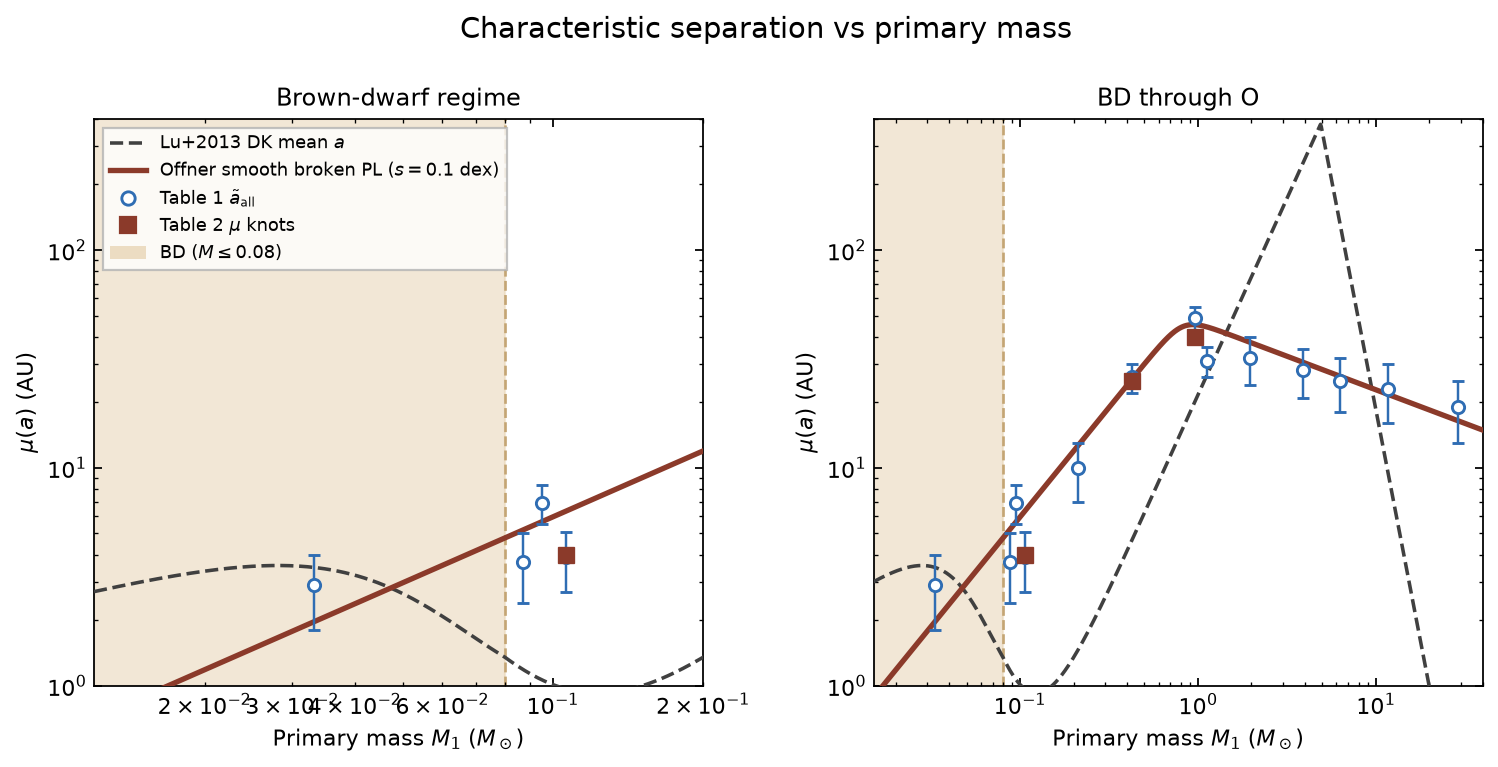
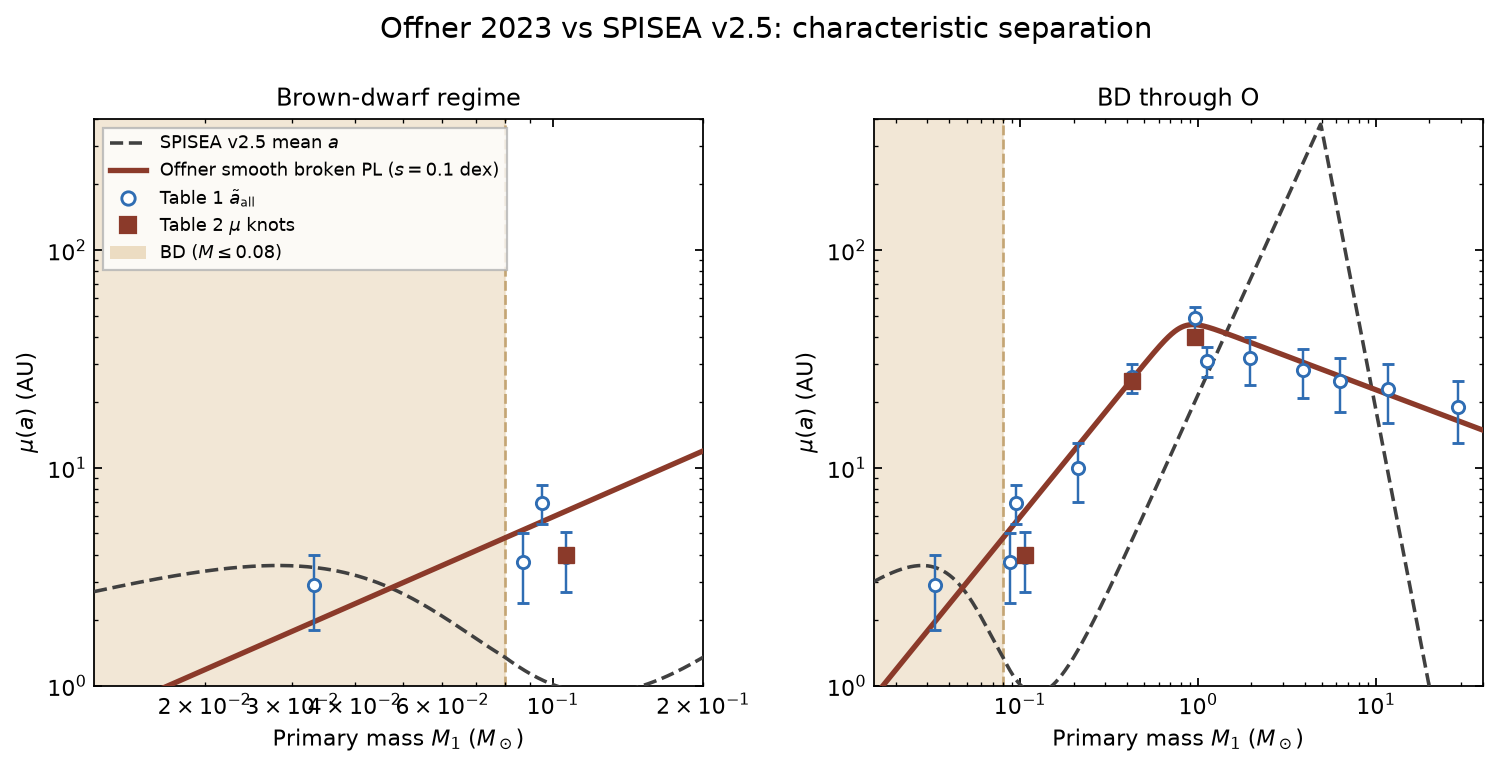
Label Offner comparison baseline as SPISEA v2.5, not Lu+2013
The comparison plots and docs describe Offner 2023 vs the default
MultiplicityUnresolved / MultiplicityResolvedDK that shipped in
SPISEA v2.5. Keep Lu et al. 2013 citations on the original classes.

Changed region(s): [[0.2457, 0.0, 0.7677, 0.06], [0.0921, 0.1799, 0.2457, 0.2099]]

diff --git a/docs/figures/plot_q_sep_offner_vs_lu2013.py b/docs/figures/plot_q_sep_offner_vs_lu2013.py
@@ -1,6 +1,6 @@
 #!/usr/bin/env python
 """
-Generate q / separation comparison figures vs Lu et al. (2013):
+Generate q / separation comparison figures vs SPISEA v2.5 defaults:
 
     docs/figures/q_offner_vs_lu2013.png
     docs/figures/sep_offner_vs_lu2013.png
@@ -96,8 +96,9 @@ def _table_xy(rows, y_idx=3, e_idx=4):
 
 def _lu2013_dk_mean_a_au(dk, mass):
     """
-    Duchêne & Kraus mean a in AU from ``MultiplicityResolvedDK`` coefficients,
-    plus the BD log-a interpolation and sigmoid blend in ``log_semimajoraxis``.
+    SPISEA v2.5 ``MultiplicityResolvedDK`` mean a in AU (Duchêne & Kraus
+    coefficients, plus the BD log-a interpolation and sigmoid blend in
+    ``log_semimajoraxis``).
     """
     mass = np.atleast_1d(np.asarray(mass, dtype=float))
     logm = np.log10(mass)
@@ -121,8 +122,9 @@ def _lu2013_dk_mean_a_au(dk, mass):
 
 def _lu2013_dk_sig_loga(dk, mass):
     """
-    Duchêne & Kraus σ(log10 a) from ``MultiplicityResolvedDK`` coefficients,
-    plus the BD interpolation and sigmoid blend in ``log_semimajoraxis``.
+    SPISEA v2.5 ``MultiplicityResolvedDK`` σ(log10 a) (Duchêne & Kraus
+    coefficients, plus the BD interpolation and sigmoid blend in
+    ``log_semimajoraxis``).
     """
     mass = np.atleast_1d(np.asarray(mass, dtype=float))
     logm = np.log10(mass)
@@ -208,7 +210,7 @@ def plot_gamma(offner, lu):
     g_lu = lu.q_power_at_mass(m_step)
     m_tab, g_tab, err_tab = _table_xy(_TABLE1_GAMMA)
 
-    fig, axes = _two_axes(r'Mass-ratio index $\gamma$ vs primary mass')
+    fig, axes = _two_axes(r'Offner 2023 vs SPISEA v2.5: mass-ratio index $\gamma$')
     ylabel = r'$\gamma$  ($P(q)\propto q^{\gamma}$)'
     for ax, xlim, title in (
         (axes[0], _BD_XLIM, 'Brown-dwarf regime'),
@@ -225,7 +227,7 @@ def plot_gamma(offner, lu):
 
     legend_handles = [
         Line2D([0], [0], color='0.25', ls='--', lw=1.6,
-               label=r'Lu+2013  $\gamma=6.1$ (BD), $-0.4$ (stellar)'),
+               label=r'SPISEA v2.5 ($\gamma=6.1$ / $-0.4$)'),
         Line2D([0], [0], color=_OFFNER_COLOR, ls='-', lw=2.4,
                label=r'Offner err-wt logistic in log $M$'),
         Line2D([0], [0], marker='o', color=_TABLE1_COLOR, ls='none',
@@ -246,7 +248,7 @@ def plot_sep(resolved, dk):
     m_t2 = np.array([_geom(r[1], r[2]) for r in _TABLE2_MU])
     a_t2 = np.array([r[3] for r in _TABLE2_MU], dtype=float)
 
-    fig, axes = _two_axes(r'Characteristic separation vs primary mass')
+    fig, axes = _two_axes(r'Offner 2023 vs SPISEA v2.5: characteristic separation')
     ylabel = r'$\mu(a)$ (AU)'
     for ax, xlim, title in (
         (axes[0], _BD_XLIM, 'Brown-dwarf regime'),
@@ -264,7 +266,7 @@ def plot_sep(resolved, dk):
 
     legend_handles = [
         Line2D([0], [0], color='0.25', ls='--', lw=1.6,
-               label=r'Lu+2013 DK mean $a$'),
+               label=r'SPISEA v2.5 mean $a$'),
         Line2D([0], [0], color=_OFFNER_COLOR, ls='-', lw=2.4,
                label=r'Offner smooth broken PL ($s=0.1$ dex)'),
         Line2D([0], [0], marker='o', color=_TABLE1_COLOR, ls='none',
@@ -286,7 +288,7 @@ def plot_sig_loga(resolved, dk):
     m_t2 = np.array(resolved.sep_sig_mass, dtype=float)
     sig_t2 = np.array(resolved.sep_sig, dtype=float)
 
-    fig, axes = _two_axes(r'Separation scatter $\sigma(\log_{10} a)$ vs primary mass')
+    fig, axes = _two_axes(r'Offner 2023 vs SPISEA v2.5: $\sigma(\log_{10} a)$')
     ylabel = r'$\sigma(\log_{10} a)$'
     for ax, xlim, title in (
         (axes[0], _BD_XLIM, 'Brown-dwarf regime'),
@@ -301,7 +303,7 @@ def plot_sig_loga(resolved, dk):
 
     legend_handles = [
         Line2D([0], [0], color='0.25', ls='--', lw=1.6,
-               label=r'Lu+2013 DK $\sigma(\log_{10} a)$'),
+               label=r'SPISEA v2.5 DK $\sigma_{\log a}$'),
         Line2D([0], [0], color=_OFFNER_COLOR, ls='-', lw=2.4,
                label=r'Offner 2-param logistic $\sigma$'),
         Line2D([0], [0], marker='s', color=_OFFNER_COLOR, ls='none',
@@ -321,7 +323,7 @@ def plot_meanq(offner, lu):
     m_step = _lu_gamma_step_masses()
     q_lu = _mean_q_from_gamma(lu.q_power_at_mass(m_step), q_min=lu.q_min)
 
-    fig, axes = _two_axes(r'Mean mass ratio $\langle q\rangle$ vs primary mass')
+    fig, axes = _two_axes(r'Offner 2023 vs SPISEA v2.5: mean mass ratio $\langle q\rangle$')
     ylabel = r'$\langle q\rangle$  on $[0.01,\,1]$'
     for ax, xlim, title in (
         (axes[0], _BD_XLIM, 'Brown-dwarf regime'),
@@ -334,7 +336,7 @@ def plot_meanq(offner, lu):
 
     legend_handles = [
         Line2D([0], [0], color='0.25', ls='--', lw=1.6,
-               label=r'Lu+2013  from $\gamma$ step'),
+               label=r'SPISEA v2.5 from $\gamma$ step'),
         Line2D([0], [0], color=_OFFNER_COLOR, ls='-', lw=2.4,
                label=r'Offner  from $\gamma(M)$ logistic'),
         Patch(facecolor=_BD_SHADE, edgecolor='none', alpha=0.8,

diff --git a/docs/figures/plot_mf_offner_vs_lu2013.py b/docs/figures/plot_mf_offner_vs_lu2013.py
@@ -3,7 +3,7 @@
 Generate docs/figures/mf_offner_vs_lu2013.png
 
 Two-panel comparison of multiplicity fraction vs primary mass:
-Lu et al. (2013) array power law, Lu+2013 scalar BD staircase,
+SPISEA v2.5 array power law, v2.5 scalar BD staircase,
 Offner et al. 2023 logistic in log-mass, and Offner Table 1
 points with error bars.
 
@@ -47,13 +47,13 @@ _TABLE1 = [
 
 
 def _lu2013_array_mf(mass):
-    """What cluster generation used: stellar power law, no BD staircase."""
+    """SPISEA v2.5 array path: stellar power law, no BD staircase."""
     mf = 0.44 * np.asarray(mass, dtype=float) ** 0.51
     return np.clip(mf, 0.0, 1.0)
 
 
 def _lu2013_scalar_bd_staircase(mass):
-    """Scalar-only BD bins in MultiplicityUnresolved.multiplicity_fraction."""
+    """SPISEA v2.5 scalar-only BD bins in MultiplicityUnresolved.multiplicity_fraction."""
     mass = np.asarray(mass, dtype=float)
     mf = _lu2013_array_mf(mass)
     mf = np.where(mass < 0.02, 0.0, mf)
@@ -74,9 +74,9 @@ def _style_panel(ax, m_off, mf_off, m_lu, mf_lu, m_step, mf_step,
     ax.axvspan(xlim[0], 0.08, color='#e8d5b5', alpha=0.55, zorder=0)
     ax.axvline(0.08, color='#c4a574', ls='--', lw=1.2, zorder=1)
     ax.plot(m_lu, mf_lu, color='0.25', ls='--', lw=1.6, zorder=3,
-            label=r'Lu+2013 power law  $0.44\,M^{0.51}$')
+            label=r'SPISEA v2.5 $0.44\,M^{0.51}$')
     ax.plot(m_step, mf_step, color='0.45', ls=':', lw=1.8, zorder=3,
-            label=r'Lu+2013 scalar BD bins  (0 / 8% / 16%)')
+            label=r'SPISEA v2.5 scalar BD bins (0 / 8% / 16%)')
     ax.plot(m_off, mf_off, color='#8b3a2a', ls='-', lw=2.4, zorder=4,
             label='Offner logistic in log M')
     ax.errorbar(m_tab, mf_tab, yerr=err_tab, fmt='o', color='#2f6db3',
@@ -109,7 +109,8 @@ def main():
 
     fig, axes = plt.subplots(1, 2, figsize=(11.2, 4.6),
                              gridspec_kw={'wspace': 0.28})
-    fig.suptitle('Multiplicity fraction vs primary mass', fontsize=13, y=1.02)
+    fig.suptitle('Offner 2023 vs SPISEA v2.5: multiplicity fraction',
+                 fontsize=13, y=1.02)
 
     _style_panel(
         axes[0], m_wide, mf_off, m_wide, mf_lu, m_step, mf_step,
@@ -124,9 +125,9 @@ def main():
 
     legend_handles = [
         Line2D([0], [0], color='0.25', ls='--', lw=1.6,
-               label=r'Lu+2013 power law  $0.44\,M^{0.51}$'),
+               label=r'SPISEA v2.5 $0.44\,M^{0.51}$'),
         Line2D([0], [0], color='0.45', ls=':', lw=1.8,
-               label=r'Lu+2013 scalar BD bins  (0 / 8% / 16%)'),
+               label=r'SPISEA v2.5 scalar BD bins (0 / 8% / 16%)'),
         Line2D([0], [0], color='#8b3a2a', ls='-', lw=2.4,
                label='Offner logistic in log M'),
         Line2D([0], [0], marker='o', color='#2f6db3', ls='none',

diff --git a/spisea/tests/test_multiplicity.py b/spisea/tests/test_multiplicity.py
@@ -500,7 +500,7 @@ def test_offner2023_alias_and_resolved_methods():
 
 
 def test_lu2013_defaults_unchanged():
-    """Lu et al. 2013 MultiplicityUnresolved defaults and stellar MF unchanged."""
+    """SPISEA v2.5 MultiplicityUnresolved defaults and stellar MF unchanged."""
     mu = multiplicity.MultiplicityUnresolved()
     assert mu.MF_amp == 0.44
     assert mu.MF_pow == 0.51
@@ -509,7 +509,7 @@ def test_lu2013_defaults_unchanged():
     np.testing.assert_almost_equal(mu.multiplicity_fraction(1.0), 0.44, decimal=2)
     np.testing.assert_almost_equal(mu.multiplicity_fraction(10.0), 1.0, decimal=2)
     np.testing.assert_almost_equal(mu.multiplicity_fraction(0.1), 0.136, decimal=2)
-    # Scalar BD overrides (historical Lu+2013 / Fontanive path)
+    # Scalar BD overrides (SPISEA v2.5 / Fontanive path)
     assert np.isclose(mu.multiplicity_fraction(0.07), 0.16, atol=0.01)
     assert np.isclose(mu.multiplicity_fraction(0.04), 0.08, atol=0.01)
     assert np.isclose(mu.multiplicity_fraction(0.01), 0.0, atol=1e-6)
@@ -572,13 +572,13 @@ def test_calc_multi_uses_multiplicity_q_and_counts():
 
 
 def test_offner2023_mf_is_vectorized():
-    """Offner MF is vectorized; Lu+2013 scalar BD bins are not used here."""
+    """Offner MF is vectorized; SPISEA v2.5 scalar BD bins are not used here."""
     multi = multiplicity.MultiplicityUnresolvedOffner2023()
     masses = np.array([0.03, 0.06, 0.10, 1.0])
     mf = multi.multiplicity_fraction(masses)
     for i, m in enumerate(masses):
         np.testing.assert_allclose(mf[i], multi.multiplicity_fraction(float(m)))
-    # Array path is not the Lu stellar power law 0.44 * M**0.51
+    # Array path is not the SPISEA v2.5 stellar power law 0.44 * M**0.51
     lu_pl = 0.44 * masses ** 0.51
     assert not np.allclose(mf, np.clip(lu_pl, 0, 1), atol=0.02)
 

diff --git a/spisea/imf/multiplicity.py b/spisea/imf/multiplicity.py
@@ -987,7 +987,7 @@ class MultiplicityUnresolvedOffner2023(MultiplicityLogistic):
     :meth:`sigma_log_a`. Resolved draws use those as loc / scale
     of a truncated lognormal.
 
-    This class is opt-in; it does not change the Lu et al. (2013)
+    This class is opt-in; it does not change the SPISEA v2.5
     :class:`MultiplicityUnresolved` default.
 
     Parameters

diff --git a/spisea/tests/test_imf.py b/spisea/tests/test_imf.py
@@ -52,7 +52,7 @@ def test_generate_cluster_offner2023():
     assert np.all(n_comp[bd] <= 1)
     assert np.any(isMulti)
 
-    # BD companions should be more equal-mass than Lu+2013 stellar q_power=-0.4
+    # BD companions should be more equal-mass than SPISEA v2.5 stellar q_power=-0.4
     bd_mult = bd & isMulti
     if np.any(bd_mult):
         q_bd = []

diff --git a/docs/multiplicity.rst b/docs/multiplicity.rst
@@ -91,9 +91,10 @@ Planets VII, ASP Conf. Ser. 534, 275 (`arXiv:2203.10066
 data: Zenodo `10.5281/zenodo.6628915
 <https://doi.org/10.5281/zenodo.6628915>`_.
 
-The Lu et al. (2013) :class:`~imf.multiplicity.MultiplicityUnresolved`
-object remains the default. Pass an Offner instance as
-``IMF.multiplicity`` to use this model.
+The SPISEA v2.5 :class:`~imf.multiplicity.MultiplicityUnresolved` /
+:class:`~imf.multiplicity.MultiplicityResolvedDK` objects remain the
+default. Pass an Offner instance as ``IMF.multiplicity`` to use this
+model.
 
 Unresolved (companions, no orbits)::
 
@@ -132,20 +133,20 @@ raised to at least MF, and forced equal to MF for
 :math:`M \le 0.08\,M_\odot` (binaries only). Masses :math:`M \le 0`
 map to the low-mass asymptote :math:`A`.
 
-Lu et al. (2013) uses :math:`\mathrm{MF} = 0.44\,M^{0.51}` (clipped
+SPISEA v2.5 uses :math:`\mathrm{MF} = 0.44\,M^{0.51}` (clipped
 to 1) for arrays, plus a scalar-only brown-dwarf staircase
 (0 / 8% / 16%). Cluster generation on that class still uses the
 stellar power law for brown-dwarf primaries.
 
 .. figure:: figures/mf_offner_vs_lu2013.png
-   :alt: Multiplicity fraction vs primary mass: Offner logistic vs Lu+2013 power law and scalar BD staircase
+   :alt: Offner 2023 vs SPISEA v2.5: multiplicity fraction vs primary mass
    :align: center
 
-   Multiplicity fraction vs primary mass. Left: brown-dwarf zoom.
-   Right: BD through early B. Solid: Offner logistic in log-mass.
-   Dashed: Lu+2013 :math:`0.44\,M^{0.51}`. Dotted: Lu+2013 scalar BD
-   staircase. Blue points: Offner Table 1. Shaded:
-   :math:`M \le 0.08\,M_\odot`.
+   Offner 2023 vs SPISEA v2.5: multiplicity fraction vs primary mass.
+   Left: brown-dwarf zoom. Right: BD through early B. Solid: Offner
+   logistic in log-mass. Dashed: SPISEA v2.5 :math:`0.44\,M^{0.51}`.
+   Dotted: SPISEA v2.5 scalar BD staircase. Blue points: Offner
+   Table 1. Shaded: :math:`M \le 0.08\,M_\odot`.
 
 Mass-ratio index
 ~~~~~~~~~~~~~~~~
@@ -165,25 +166,26 @@ with :math:`(A, B, M_0, k) = (6.6, -1.77, 0.0651, 0.629)`. Call
 The err-weighted fit undershoots Fontanive et al. (2018)
 :math:`8\pm 6\%` MF and :math:`\gamma = 4.8\pm 2.2`: at
 :math:`0.033\,M_\odot`, :math:`\gamma \approx 3.3`. That is the
-fit, not a bug. Lu+2013 is a step: :math:`\gamma = 6.1` for
+fit, not a bug. SPISEA v2.5 is a step: :math:`\gamma = 6.1` for
 :math:`M \le 0.08\,M_\odot` (Fontanive) and :math:`-0.4` above.
 
 .. figure:: figures/q_offner_vs_lu2013.png
-   :alt: Mass-ratio index vs primary mass: Offner error-weighted logistic vs Lu+2013 6.1 / -0.4 step
+   :alt: Offner 2023 vs SPISEA v2.5: mass-ratio index vs primary mass
    :align: center
 
-   Mass-ratio index :math:`\gamma` vs primary mass. Solid: Offner
-   error-weighted logistic. Dashed: Lu+2013 step (6.1 below
-   :math:`0.08\,M_\odot`, :math:`-0.4` above). Blue points: Table 1
-   :math:`\gamma_{\mathrm{trunc}}`.
+   Offner 2023 vs SPISEA v2.5: mass-ratio index :math:`\gamma` vs
+   primary mass. Solid: Offner error-weighted logistic. Dashed:
+   SPISEA v2.5 step (6.1 below :math:`0.08\,M_\odot`, :math:`-0.4`
+   above). Blue points: Table 1 :math:`\gamma_{\mathrm{trunc}}`.
 
 .. figure:: figures/meanq_offner_vs_lu2013.png
-   :alt: Mean mass ratio vs primary mass implied by P(q) proportional to q^gamma
+   :alt: Offner 2023 vs SPISEA v2.5: mean mass ratio vs primary mass
    :align: center
 
-   Mean mass ratio :math:`\langle q \rangle` on :math:`[0.01, 1]`
-   implied by :math:`P(q)\propto q^{\gamma}`. Offner brown-dwarf
-   companions are more equal-mass than Lu+2013 stellar :math:`q`.
+   Offner 2023 vs SPISEA v2.5: mean mass ratio
+   :math:`\langle q \rangle` on :math:`[0.01, 1]` implied by
+   :math:`P(q)\propto q^{\gamma}`. Offner brown-dwarf companions
+   are more equal-mass than SPISEA v2.5 stellar :math:`q`.
 
 Characteristic separation
 ~~~~~~~~~~~~~~~~~~~~~~~~~
@@ -211,19 +213,20 @@ uses the stable form
 ``log_a_mean(mass)`` returns :math:`\log_{10}(a/\mathrm{AU})`;
 ``a_mean(mass)`` returns :math:`a` in AU.
 
-Lu+2013 :class:`~imf.multiplicity.MultiplicityResolvedDK` uses a
-Duchêne & Kraus (2013) broken power law in :math:`a` with a
+The SPISEA v2.5 :class:`~imf.multiplicity.MultiplicityResolvedDK`
+uses a Duchêne & Kraus (2013) broken power law in :math:`a` with a
 brown-dwarf blend. That law is not meant for the BD regime.
 
 .. figure:: figures/sep_offner_vs_lu2013.png
-   :alt: Characteristic separation vs primary mass: Offner smooth broken power law vs Lu+2013 Duchene-Kraus
+   :alt: Offner 2023 vs SPISEA v2.5: characteristic separation vs primary mass
    :align: center
 
-   Characteristic :math:`\mu(a)` vs primary mass. Solid: Offner
-   smooth broken power law. Dashed: Lu+2013 DK mean :math:`a`.
-   Open circles: Table 1 :math:`\tilde{a}_{\mathrm{all}}`. Filled
-   squares: Table 2 :math:`\mu` knots (4, 25, 40 AU). Offner BD
-   binaries peak at a few AU.
+   Offner 2023 vs SPISEA v2.5: characteristic :math:`\mu(a)` vs
+   primary mass. Solid: Offner smooth broken power law. Dashed:
+   SPISEA v2.5 mean :math:`a`. Open circles: Table 1
+   :math:`\tilde{a}_{\mathrm{all}}`. Filled squares: Table 2
+   :math:`\mu` knots (4, 25, 40 AU). Offner BD binaries peak at a
+   few AU.
 
 Separation scatter
 ~~~~~~~~~~~~~~~~~~
@@ -235,17 +238,18 @@ Separation scatter
    \sigma(M) = 0.7 + \frac{0.8}{1 + (M / 0.354)^{-6.05}}
 
 i.e. :math:`(A, B, M_0, k) = (0.7, 1.5, 0.354, 6.05)`, clipped to
-:math:`\ge 0.1`. Call ``sigma_log_a(mass)``. Lu+2013 DK is a linear
-fit in :math:`\log M` that saturates above :math:`2.9\,M_\odot`; the
-dip near :math:`0.08\,M_\odot` is the BD/stellar blend.
+:math:`\ge 0.1`. Call ``sigma_log_a(mass)``. SPISEA v2.5 DK is a
+linear fit in :math:`\log M` that saturates above
+:math:`2.9\,M_\odot`; the dip near :math:`0.08\,M_\odot` is the
+BD/stellar blend.
 
 .. figure:: figures/sig_loga_offner_vs_lu2013.png
-   :alt: Sigma of log10 a vs primary mass: Offner 2-param logistic vs Lu+2013 DK
+   :alt: Offner 2023 vs SPISEA v2.5: sigma of log10 a vs primary mass
    :align: center
 
-   :math:`\sigma(\log_{10} a)` vs primary mass. Solid: Offner
-   2-parameter logistic. Dashed: Lu+2013 DK. Filled squares: Table 2
-   knots (0.7, 1.3, 1.5).
+   Offner 2023 vs SPISEA v2.5: :math:`\sigma(\log_{10} a)` vs
+   primary mass. Solid: Offner 2-parameter logistic. Dashed:
+   SPISEA v2.5 DK. Filled squares: Table 2 knots (0.7, 1.3, 1.5).
 
 Resolved draws
 ~~~~~~~~~~~~~~

diff --git a/docs/index.rst b/docs/index.rst
@@ -97,7 +97,7 @@ Change Log
 		* New tutorial for creating SPISEA clusters using COSMIC: docs/Cluster_w_COSMIC.ipynb
 
 * *Minor Changes*
-	* Added opt-in Offner et al. 2023 (Protostars and Planets VII; arXiv:2203.10066) multiplicity model, including brown dwarfs. MF/CSF is a logistic in log-mass; :math:`\gamma(M)` is an error-weighted logistic; :math:`\mu(a)` is a smooth broken power law (:math:`s=0.1` dex); :math:`\sigma(\log_{10} a)` is a 2-parameter logistic. Comparison figures vs Lu et al. (2013) are in :ref:`multi_obj`. Lu et al. (2013) remains the default.
+	* Added opt-in Offner et al. 2023 (Protostars and Planets VII; arXiv:2203.10066) multiplicity model, including brown dwarfs. MF/CSF is a logistic in log-mass; :math:`\gamma(M)` is an error-weighted logistic; :math:`\mu(a)` is a smooth broken power law (:math:`s=0.1` dex); :math:`\sigma(\log_{10} a)` is a 2-parameter logistic. Comparison figures vs SPISEA v2.5 are in :ref:`multi_obj`. The SPISEA v2.5 :class:`~imf.multiplicity.MultiplicityUnresolved` / :class:`~imf.multiplicity.MultiplicityResolvedDK` objects remain the default.
 	* Companion mass and separation draws (including brown-dwarf q and binaries-only BD systems) now live on the multiplicity object rather than being special-cased in ``imf.py``.
 	* The MISTv1.2-synthpop model extension was modified to include denser sampling in the gap between the base MISTv1.2 grids and 0.1Msun.
   	* Modified default for MISTv1.2 isochrones: synthpop_extension will be True by default to keep a consistent lower mass limit of 0.1Msun across all ages and metallicities.

diff --git a/docs/imf.rst b/docs/imf.rst
@@ -17,7 +17,9 @@ and exponents of the IMF.
 The IMF object is an input for the :ref:`cluster_objects`, and will
 be used to draw the inital stellar mass distribution for the cluster.
 A :ref:`multi_obj` may be passed to the IMF object to
-form multiple star systems. The default is Lu et al. (2013);
+form multiple star systems. The default is the SPISEA v2.5
+:class:`~imf.multiplicity.MultiplicityUnresolved` /
+:class:`~imf.multiplicity.MultiplicityResolvedDK` objects;
 Offner et al. 2023 is opt-in (see :ref:`multi_obj`).
 
 Base IMF Class
